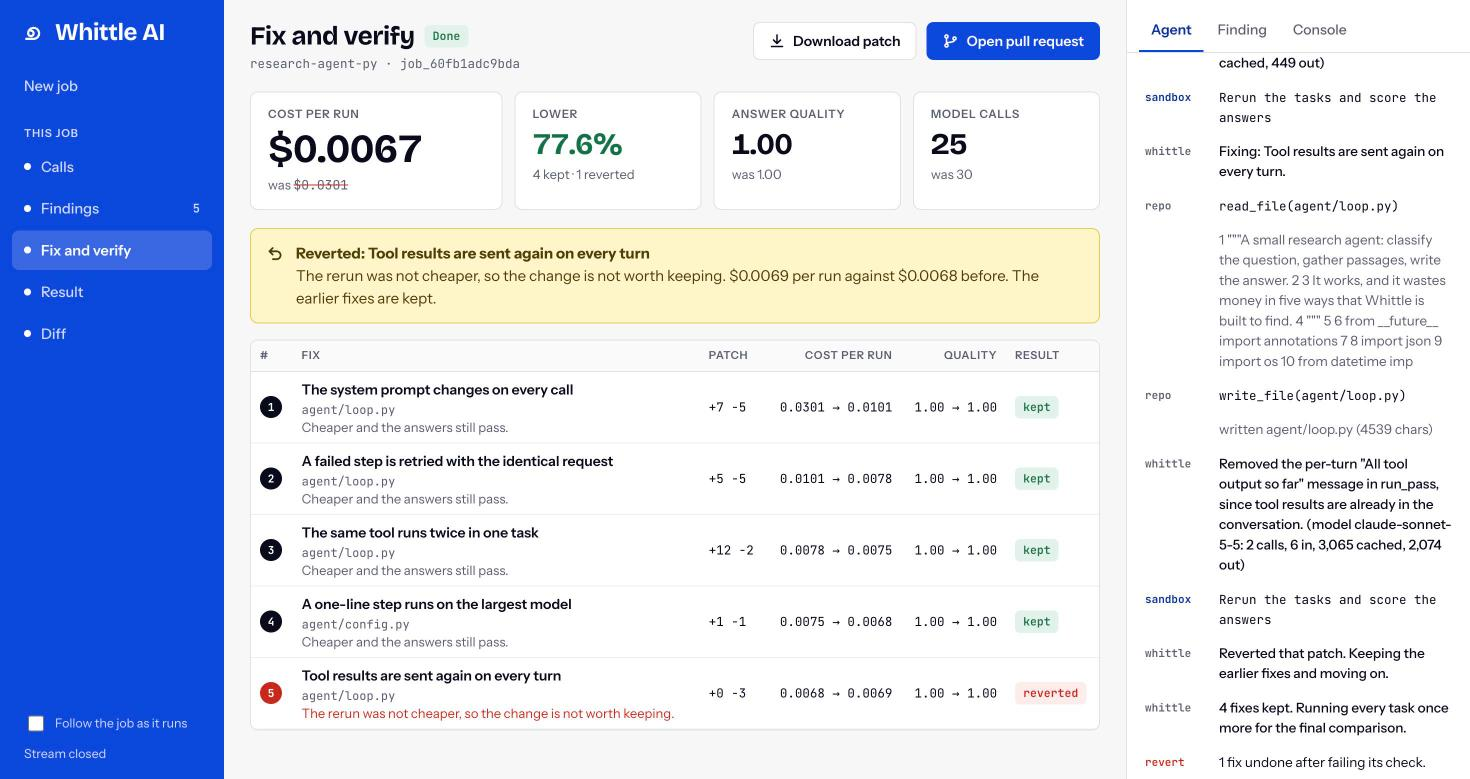
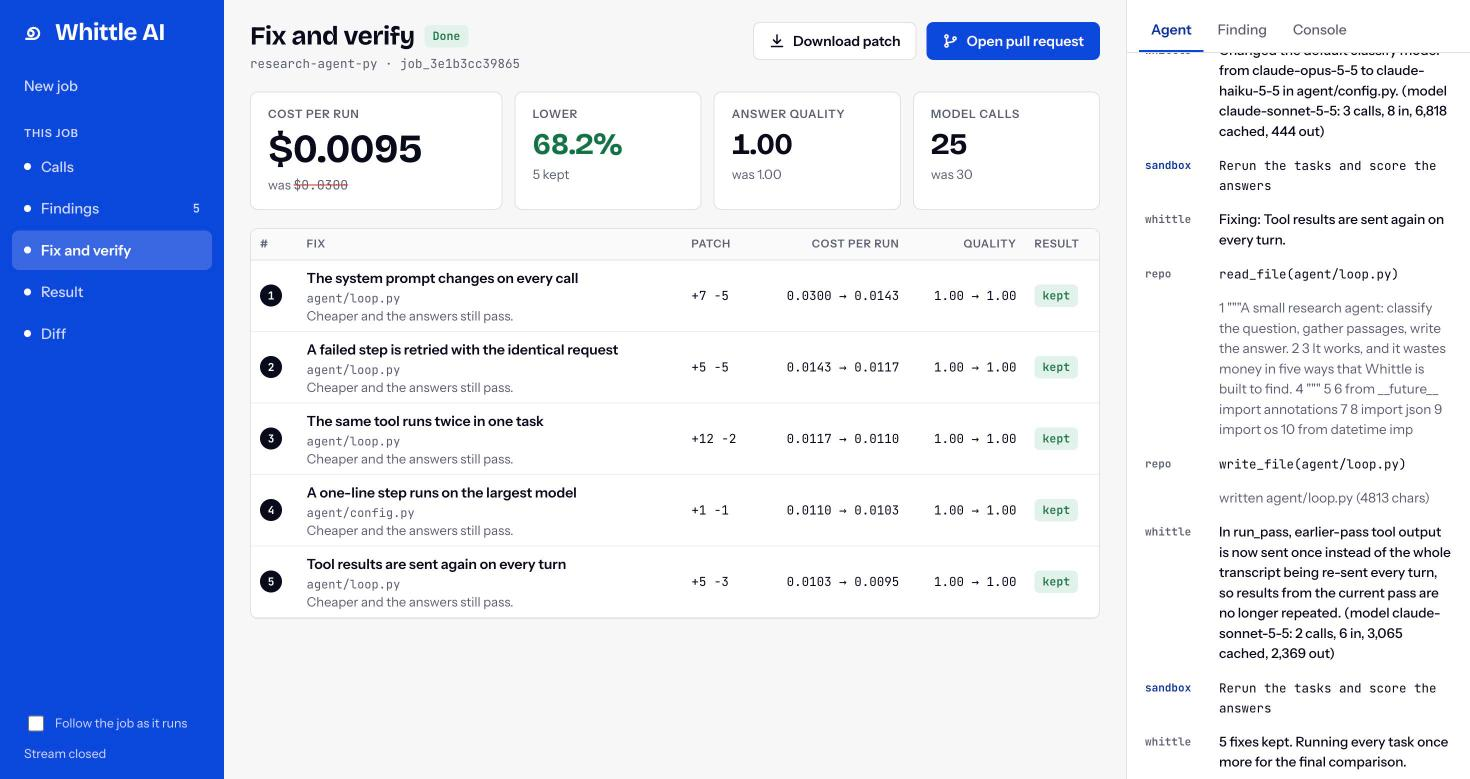
Correct the published savings and log the scan, TypeScript and pricing work
The README and the business plan quoted savings from before the cost fix.
They now give the figures measured after it (68.2% on the Python sample,
69.4% on the TypeScript one), say plainly that the earlier 77% to 82% was
too high and why, and show screenshots of the corrected run.

Entire-Checkpoint: 01M4MXAGM319T9Y9ZV9ME57BFE

diff --git a/devlog.md b/devlog.md
@@ -3,7 +3,7 @@
 - **Project:** Whittle AI
 - **Event:** neatHack
 - **Team:** Attention Heads (Padmanabhan and Sethuraman)
-- **What it does:** Runs an AI agent in a Docker sandbox behind a recording proxy, finds five kinds of waste in its model calls, has its own agent patch the code, reruns and scores the answers, keeps or reverts each fix, and reports the before and after (`docs/superpowers/specs/2026-10-10-agent-cost-cutter-design.md`)
+- **What it does:** Reads any repository's code to show where its model spend goes (scan), and runs an AI agent in a Docker sandbox behind a recording proxy, finds five kinds of waste in its model calls, has its own agent patch the code, reruns and scores the answers, keeps or reverts each fix, and reports the before and after (`docs/superpowers/specs/2026-10-10-agent-cost-cutter-design.md`)
 - **Problem:** People running AI agents pay for waste they cannot see: prompts that never hit the cache, repeated tool calls, context that grows every turn, a model larger than the step needs
 - **Status:** working end to end on the sample agent; traces, pull requests and deployment still open
 - **Live app:** not deployed
@@ -20,13 +20,13 @@
 - **cfo.ai:** a 12-month model built in cfo.ai on 11 Oct (four pages, three growth cases, a founder-pay stress case); summary in `business/plan.md`
 - **Built in public:** 2
 - **Started:** 2026-10-10T12:37:00+05:30
-- **Last updated:** 2026-10-11T10:47:00+05:30
+- **Last updated:** 2026-10-11T12:52:00+05:30
 
 ## Evidence
 
 | Claim | Evidence | Status |
 |---|---|---|
-| The agent improved | The product's agent on the sample: $0.0303 to $0.0068 per run (77.6%) on job `job_af31fed04311`, quality held. Whittle's own agent on the same fix, caching off then on: 10,945 uncached input tokens and $0.0440 against 8 uncached, 6,697 cache-read, 4,405 cache-write tokens and $0.0359 (18% lower on a 3-call fix); measured 11 Oct 7:40 AM IST, numbers from the SDK's usage fields, no trace link yet | partial |
+| The agent improved | Measured after the cost fix: the Python sample $0.0300 to $0.0095 per run, 68.2% lower, 5 fixes kept (`job_3e1b3cc39865`); the TypeScript sample $0.0128 to $0.0039, 69.4% (`job_166ea0202321`); answer quality 1.00 on both sides. Earlier figures of 77% to 82% were overstated by a pricing fault, see the 12:50 entry. Whittle's own agent, caching off then on: $0.0440 against $0.0359 on one fix | partial |
 | Used neatlogs | Finalised traces of the first real job (project `af5685c0…`): baseline task-2 `e7207ea46404b10276ba21067e992559`, 3 calls, $0.0295; after the kept fixes, task-2 `2857565ee53d2fc4a9b2ae953027f6d0`, 3 calls, $0.0120. Link format unconfirmed (`https://app.neatlogs.com/traces/<id>`) | partial |
 | Used Entire | checkpoints from `f4d5dcb` on; graph used at runtime by the locator and the agent | partial |
 | Used cfo.ai | `business/plan.md` and `business/cfo-ai-plan.jpg`: pricing ($49 a repository, or 10% of savings), cost per job, three growth cases, break-even at about 5 repositories, runway with and without founder pay | done |
@@ -600,6 +600,50 @@ the sample agent has a public repository of its own.
 
 Evidence rows still missing: the agent improved (trace links), used neatlogs
 (links that open), written during the hackathon.
+
+### 2026-10-11 - 3cfd69b
+Scan mode, TypeScript in the sandbox, zip upload, and a pricing fault that had
+overstated every saving.
+
+- **Shipped:** scan mode (`77e6395`). A public GitHub link is enough: Whittle
+  finds every place the code calls a model in any language, its agent reads
+  them and their callers, and reports the waste, the change to make and what
+  the code does well. Nothing is run. It also proposes a run command and the
+  variables the code needs.
+- **Shipped:** JavaScript and TypeScript run in the sandbox on a Node image;
+  Python installs from `pyproject.toml` too; a run can name a folder and extra
+  environment variables; code can be uploaded as a zip, unpacked safely; the
+  proxy records OpenAI's Responses and embeddings endpoints; code without
+  expected answers is scored by a model judge (`3cfd69b`).
+- **Fixed:** the cost formula subtracted cached tokens from an input count that
+  was already the uncached part, so uncached input cost nothing on a cache hit
+  (`f41364d`). Baselines were right; every "after" was low. Recomputed from the
+  stored records, the five full jobs saved 67.0% to 75.8%, not the 77.4% to
+  82.4% logged above and posted publicly.
+- **Fixed:** the app showed a step labelled as a neatlogs query that did not
+  call neatlogs. It now reads each baseline trace back from neatlogs and
+  reports the calls and cost it holds beside the proxy's count (`988add5`).
+- **Fixed:** the changing-prefix detector ignored the stable text after a
+  varying first line, so it missed the TypeScript sample's main waste.
+- **Measured:** after the fix, Python sample `job_3e1b3cc39865`: 30 calls and
+  $0.0300 a run before; 25 calls and $0.0095 after; 68.2% lower; five fixes
+  kept; quality 1.00 to 1.00; $600 to $191 a month at 20,000 runs. TypeScript
+  sample `job_166ea0202321`: $0.0128 to $0.0039, 69.4%, three fixes kept.
+- **Measured:** scans, with nothing run: Dynasty-Clash (a TypeScript web app,
+  147 files) 4 call sites, 3 findings; the Python sample, all 5 of its planted
+  wastes; the TypeScript sample uploaded as a zip, all 3.
+- **Evidence:** neatlogs is processing traces again: it held 4 of the 5
+  baseline traces of `job_3e1b3cc39865` as finalised, 24 model calls. It prices
+  them at $0.1793 where the proxy's record gives about $0.12 for the same four
+  runs; the two price lists differ and that is not reconciled.
+- **Not verified:** a measured run on a stranger's repository (only the two
+  samples have run); OpenAI prices come from third-party listings; the pull
+  request path; the cfo.ai model still holds the 77.6% input.
+- **Checked:** `uv run pytest`, 34 passed; `npx tsc -b` and lint clean.
+- **Built with:** Claude Code, claude-opus-5-5.
+
+Evidence rows still missing: used neatlogs (links that open, now possible
+again), written during the hackathon.
 
 ## Submission
 

diff --git a/README.md b/README.md
@@ -72,32 +72,37 @@ proposes the run command it found, so the form is filled in for you.
 
 ## A real run
 
-On 11 October the sample research agent went through Whittle AI end to end:
-five tasks before, five after, with Whittle's own fixing agent on
-`claude-sonnet-5-5`. Nothing in this section is scripted.
+On 11 October the Python sample agent went through Whittle AI end to end: five
+tasks before, five after, with Whittle's own fixing agent on `claude-sonnet-5-5`.
+Nothing in this section is scripted.
 
-![Result of a real run: 77.6% lower cost per run](assets/screens/result.jpg)
+![Result of a real run: 68.2% lower cost per run](assets/screens/result.jpg)
 
 | | Before | After |
 |---|---|---|
-| Cost per run | $0.0303 | $0.0068 (77.6% lower) |
+| Cost per run | $0.0300 | $0.0095 (68.2% lower) |
 | Model calls over 5 runs | 30 | 25 |
-| Input tokens | 57,869 | 7,220 |
+| Uncached input tokens | 57,159 | 7,195 |
 | Cache-read tokens | 0 | 37,560 |
 | Answer quality (keyword check) | 1.00 | 1.00 |
-| At 20,000 runs a month | $606 | $136 |
+| At 20,000 runs a month | $600 | $191 |
 
 The whole saving is 30 added and 16 removed lines in two files of the agent.
 
-The same sample run again an hour later kept four fixes and reverted the fifth:
-its rerun cost $0.0069 a run against $0.0068 before, so the patch was not worth
-keeping. That is the recovery path working on a real run, not a staged one.
+![Fix and verify: each fix rerun and scored](assets/screens/fix.jpg)
 
-![Fix and verify: four fixes kept, one reverted](assets/screens/fix.jpg)
+The TypeScript sample agent, the same day: $0.0128 to $0.0039 per run, 69.4%
+lower, three fixes kept, answers unchanged.
 
-Three runs of the same sample on the same day gave 82.3%, 77.6% and 77.6%. The
-spread comes from the fixing agent writing a slightly different patch each
-time; every figure is measured from the recorded calls of that run.
+Each fix is kept only if the rerun is cheaper and the answers still pass. On an
+earlier run of the Python sample one fix made the run a little dearer and was
+reverted, with the earlier fixes kept. That is the recovery path on a real run.
+
+**A correction.** Runs before 12:30 PM on 11 October reported savings of 77% to
+82%. Those were too high. The cost formula priced uncached input at zero on any
+call that read the cache, so every "after" figure was low. It is fixed
+(`f41364d`), and recomputed from their stored call records those same runs saved
+67% to 76%. The figures above are from runs made after the fix.
 
 ## What it looks like
 

diff --git a/business/plan.md b/business/plan.md
@@ -17,7 +17,7 @@ These are measured, or decided by us:
 | Input | Value | Source |
 |---|---|---|
 | Cost per run of the sample agent, before | $0.0303 | job `job_af31fed04311`, 11 October |
-| Cost per run, after | $0.0068 (77.6% lower) | same job |
+| Cost per run, after | $0.0068 (77.6% lower) | same job, **as reported at the time; see the correction below** |
 | Saving for that customer at 20,000 runs a month | about $470 a month | computed from the two figures |
 | Our model cost per job, customer brings the key | about $0.20 | fixing agent's recorded calls |
 | Our model cost per job, we pay for the runs | about $0.60 | a full sample job |
@@ -109,10 +109,20 @@ free trial per repository; paid overages; no unlimited jobs at $49. For savings
 deals, agree the baseline, the quality threshold and the billing period first,
 and never charge twice for the same saving.
 
+## Correction to the inputs
+
+The plan was built on a saving of 77.6% ($0.0303 to $0.0068 a run, about $470 a
+month at 20,000 runs). A fault in our cost formula made that too high. The
+corrected figure for the same sample is 68.2%: $0.0300 to $0.0095 a run, about
+$409 a month. The plan's conclusions hold or get slightly stronger for the flat
+price: 10% of the corrected saving is $41 a month, so the $49 flat price now
+earns more than the savings fee on our sample, not slightly less. The model in
+cfo.ai has not been rebuilt with the corrected figure.
+
 ## What this plan does not show
 
 No demand has been tested. The customer mix, conversion and churn are
-assumptions. The 77.6% saving is one sample agent with waste built in; the
+assumptions. The saving (68.2% once corrected) is one sample agent with waste built in; the
 forecast deliberately assumes a lower saving (20% attainable, 75% of that
 realised) for real customers. Tax, legal, security review and compliance costs
 are not included.
